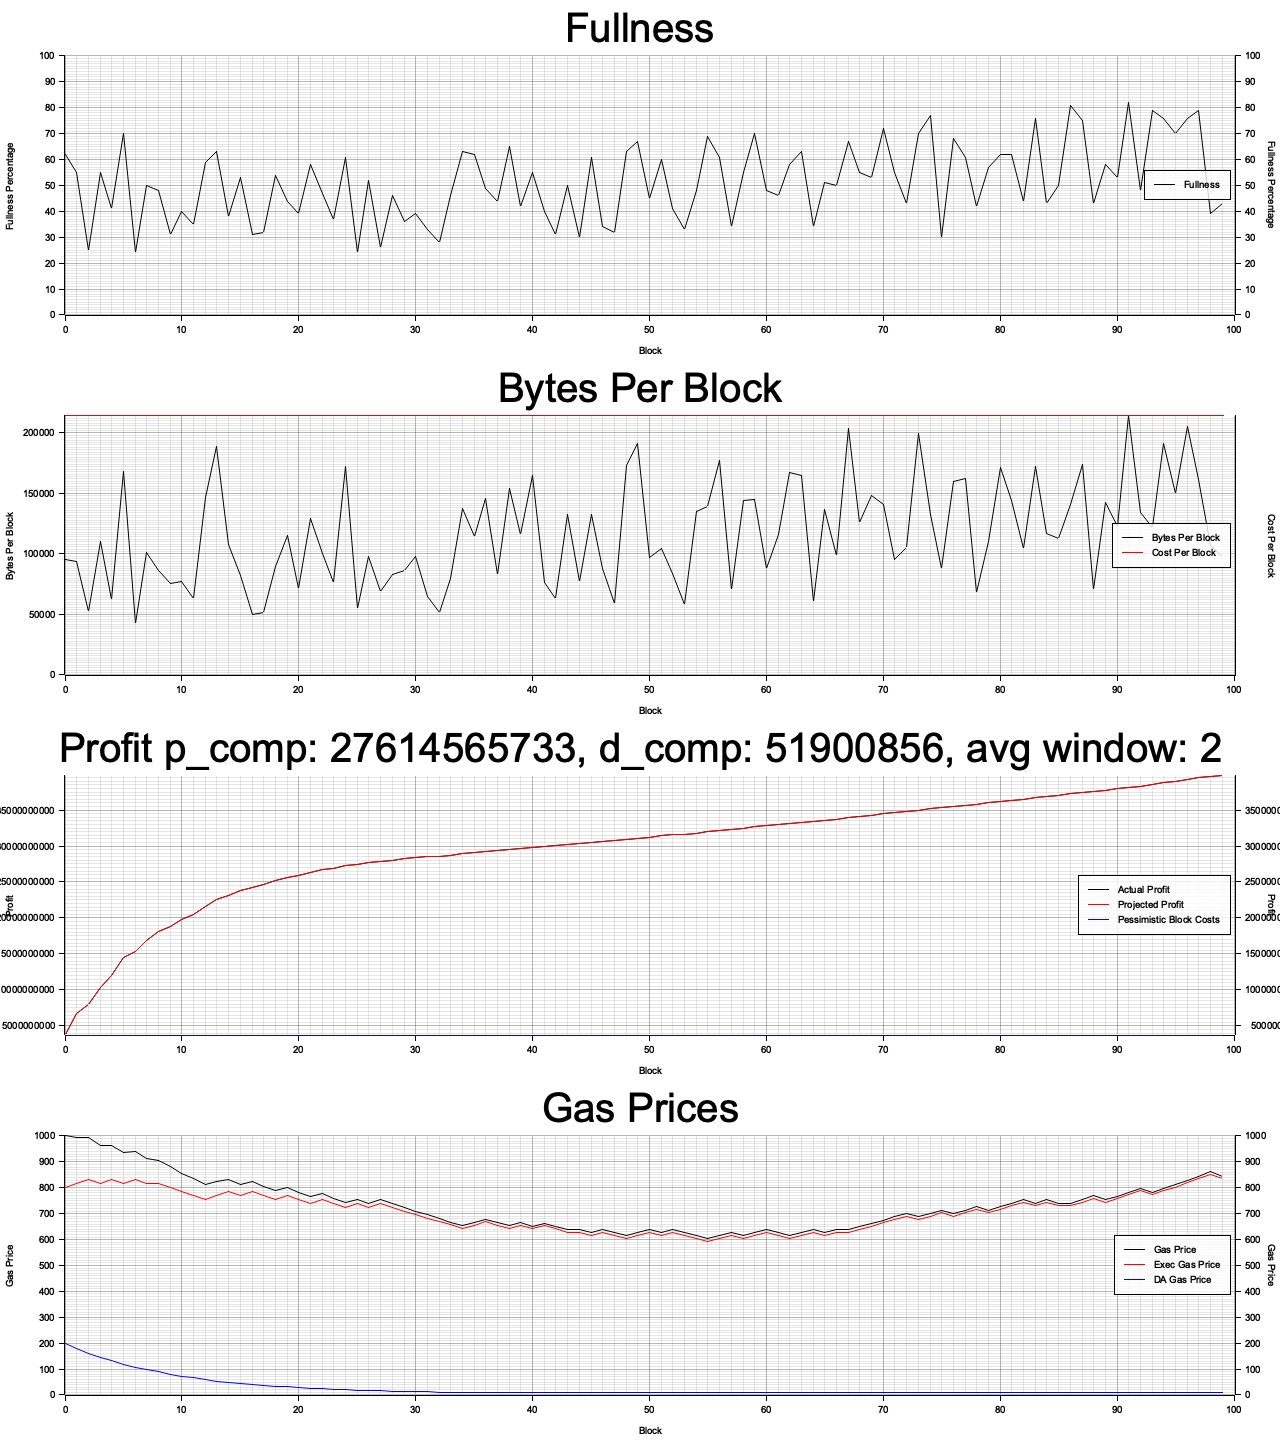
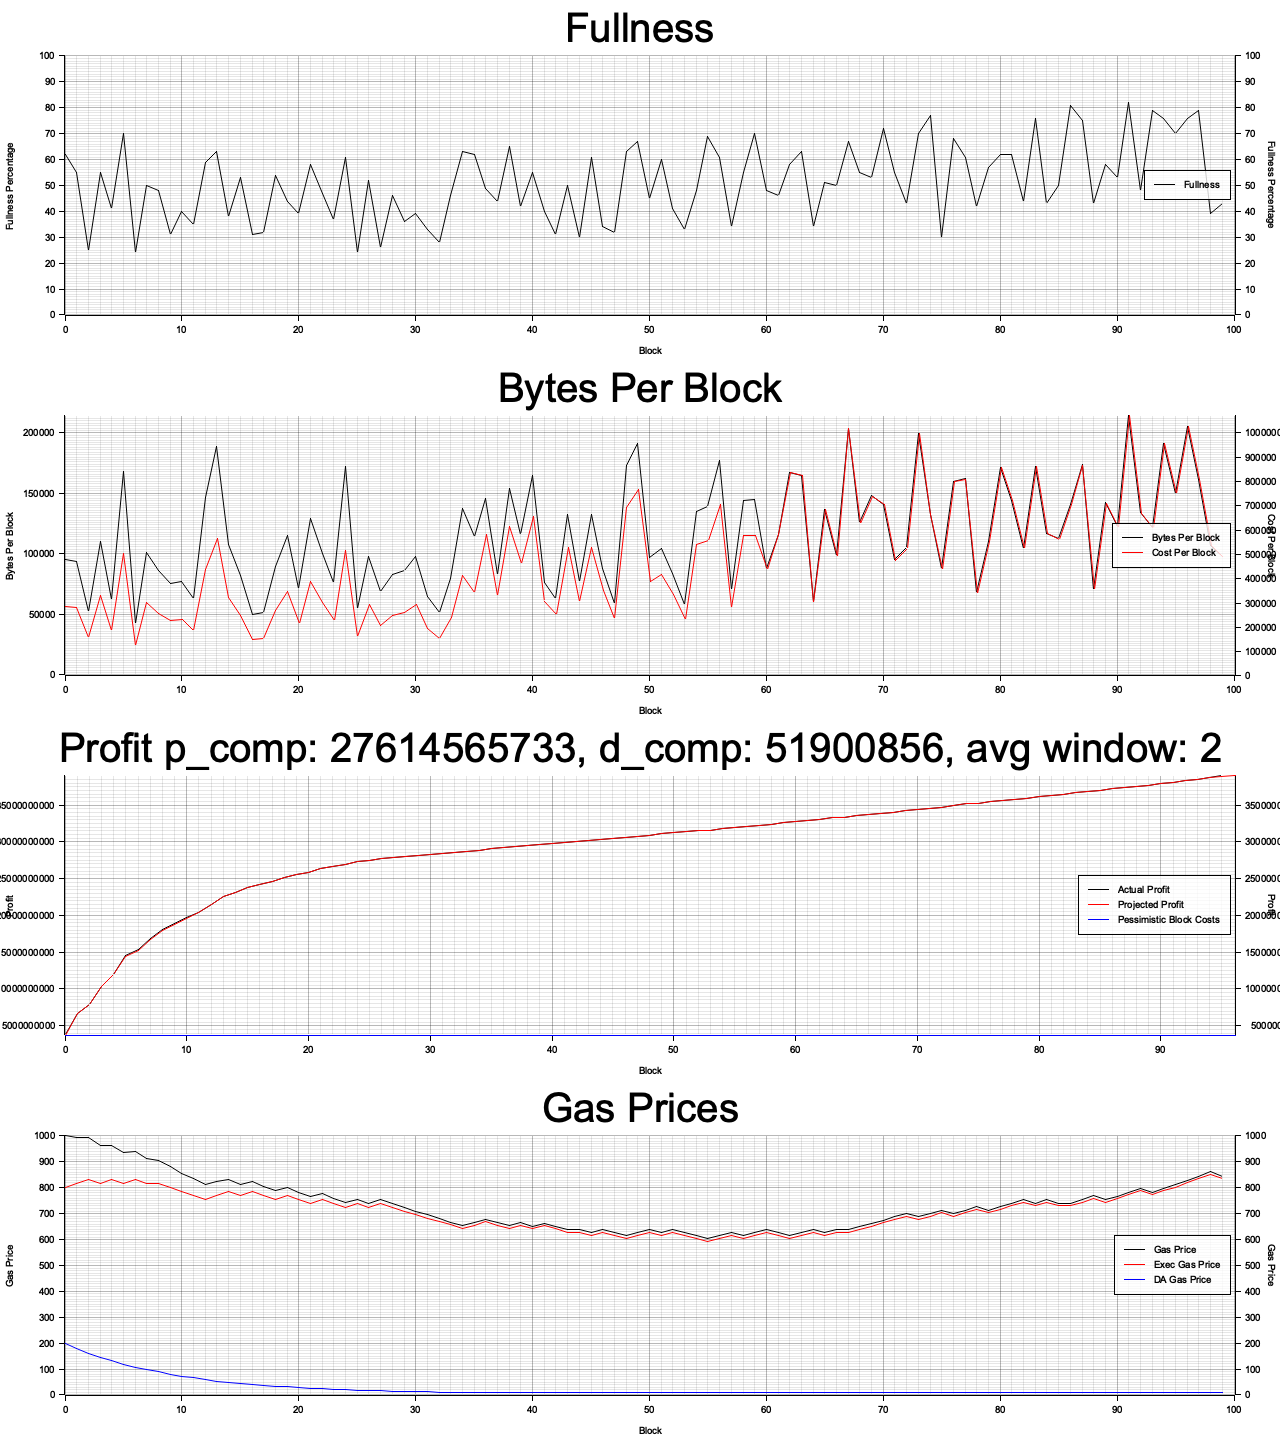
Clean up a bit

diff --git a/crates/fuel-gas-price-algorithm/gas-price-analysis/src/simulation.rs b/crates/fuel-gas-price-algorithm/gas-price-analysis/src/simulation.rs
@@ -1,3 +1,4 @@
+use std::iter;
 use super::*;
 use fuel_gas_price_algorithm::v1::{
     AlgorithmUpdaterV1,
@@ -22,12 +23,12 @@ pub fn run_simulation(
 ) -> SimulationResults {
     // simulation parameters
     let size = 100;
-    let da_recording_rate = 1;
+    let da_recording_rate = 12;
     let capacity = 30_000_000;
     let gas_per_byte = 63;
     let max_block_bytes = capacity / gas_per_byte;
     let fullness_and_bytes = fullness_and_bytes_per_block(size, capacity);
-    let da_cost_per_byte = arb_cost_per_byte(size as u32);
+    let da_cost_per_byte = arb_cost_per_byte(size, da_recording_rate);
 
     let l2_blocks = fullness_and_bytes
         .iter()
@@ -41,7 +42,7 @@ pub fn run_simulation(
             (vec![], vec![]),
             |(mut delayed, mut recorded),
              (index, ((_fullness, bytes), cost_per_byte))| {
-                let total_cost = *bytes as f64 * cost_per_byte;
+                let total_cost = *bytes * cost_per_byte;
                 let height = index as u32 + 1;
                 let converted = RecordedBlock {
                     height,
@@ -118,7 +119,7 @@ pub fn run_simulation(
 
     let (fullness_without_capacity, bytes): (Vec<_>, Vec<_>) = fullness_and_bytes.iter().cloned().unzip();
     let fullness= fullness_without_capacity.iter().map(|&fullness| (fullness, capacity)).collect();
-    let bytes_and_costs = bytes.iter().zip(da_cost_per_byte.iter()).map(|(bytes, cost_per_byte)| (*bytes, (*bytes as f64 * cost_per_byte) as u64)).collect();
+    let bytes_and_costs = bytes.iter().zip(da_cost_per_byte.iter()).map(|(bytes, cost_per_byte)| (*bytes, (*bytes * cost_per_byte) as u64)).collect();
 
     let actual_profit: Vec<i64> = actual_costs
         .iter()
@@ -144,10 +145,14 @@ pub fn run_simulation(
     }
 }
 
+// Naive Fourier series
 fn gen_noisy_signal(input: f64, components: &[f64]) -> f64 {
     components
         .iter()
-        .fold(0f64, |acc, &c| acc + f64::sin(input / c))
+        .fold(0f64, |acc, &c| {
+            let a = 100;
+            acc + f64::sin(input / c)
+        })
         / components.len() as f64
 }
 
@@ -198,17 +203,25 @@ fn noisy_eth_price<T: TryInto<f64>>(input: T) -> f64
 where
     <T as TryInto<f64>>::Error: core::fmt::Debug,
 {
-    const COMPONENTS: &[f64] = &[70.0, 130.0];
+    const COMPONENTS: &[f64] = &[7.0, 13.0];
     let input = input.try_into().unwrap();
     gen_noisy_signal(input, COMPONENTS)
 }
 
-fn arb_cost_per_byte(size: u32) -> Vec<f64> {
+fn arb_cost_per_byte(size: usize, update_period: usize) -> Vec<u64> {
     let mut rng = StdRng::seed_from_u64(10902);
-    (0u32..size)
-        // .map(noisy_eth_price)
-        .map(|_| rng.gen_range(1..5))
-        .map(|x| x as f64 * 10.0_f64.powf(-9.0))
-        // .map(|x| x as u64)
+    let actual_size = size.div_ceil(update_period);
+
+    (0u32..actual_size as u32)
+        .map(noisy_eth_price)
+        // .map(|_| rng.gen_range(1..5))
+        .map(|x| {
+            let a = 0;
+            x * 4.0 + 3.
+        })
+        .map(|x| x as u64)
+        .map(|x| iter::repeat(x).take(update_period as usize))
+        .flatten()
+        .take(size as usize)
         .collect()
 }
